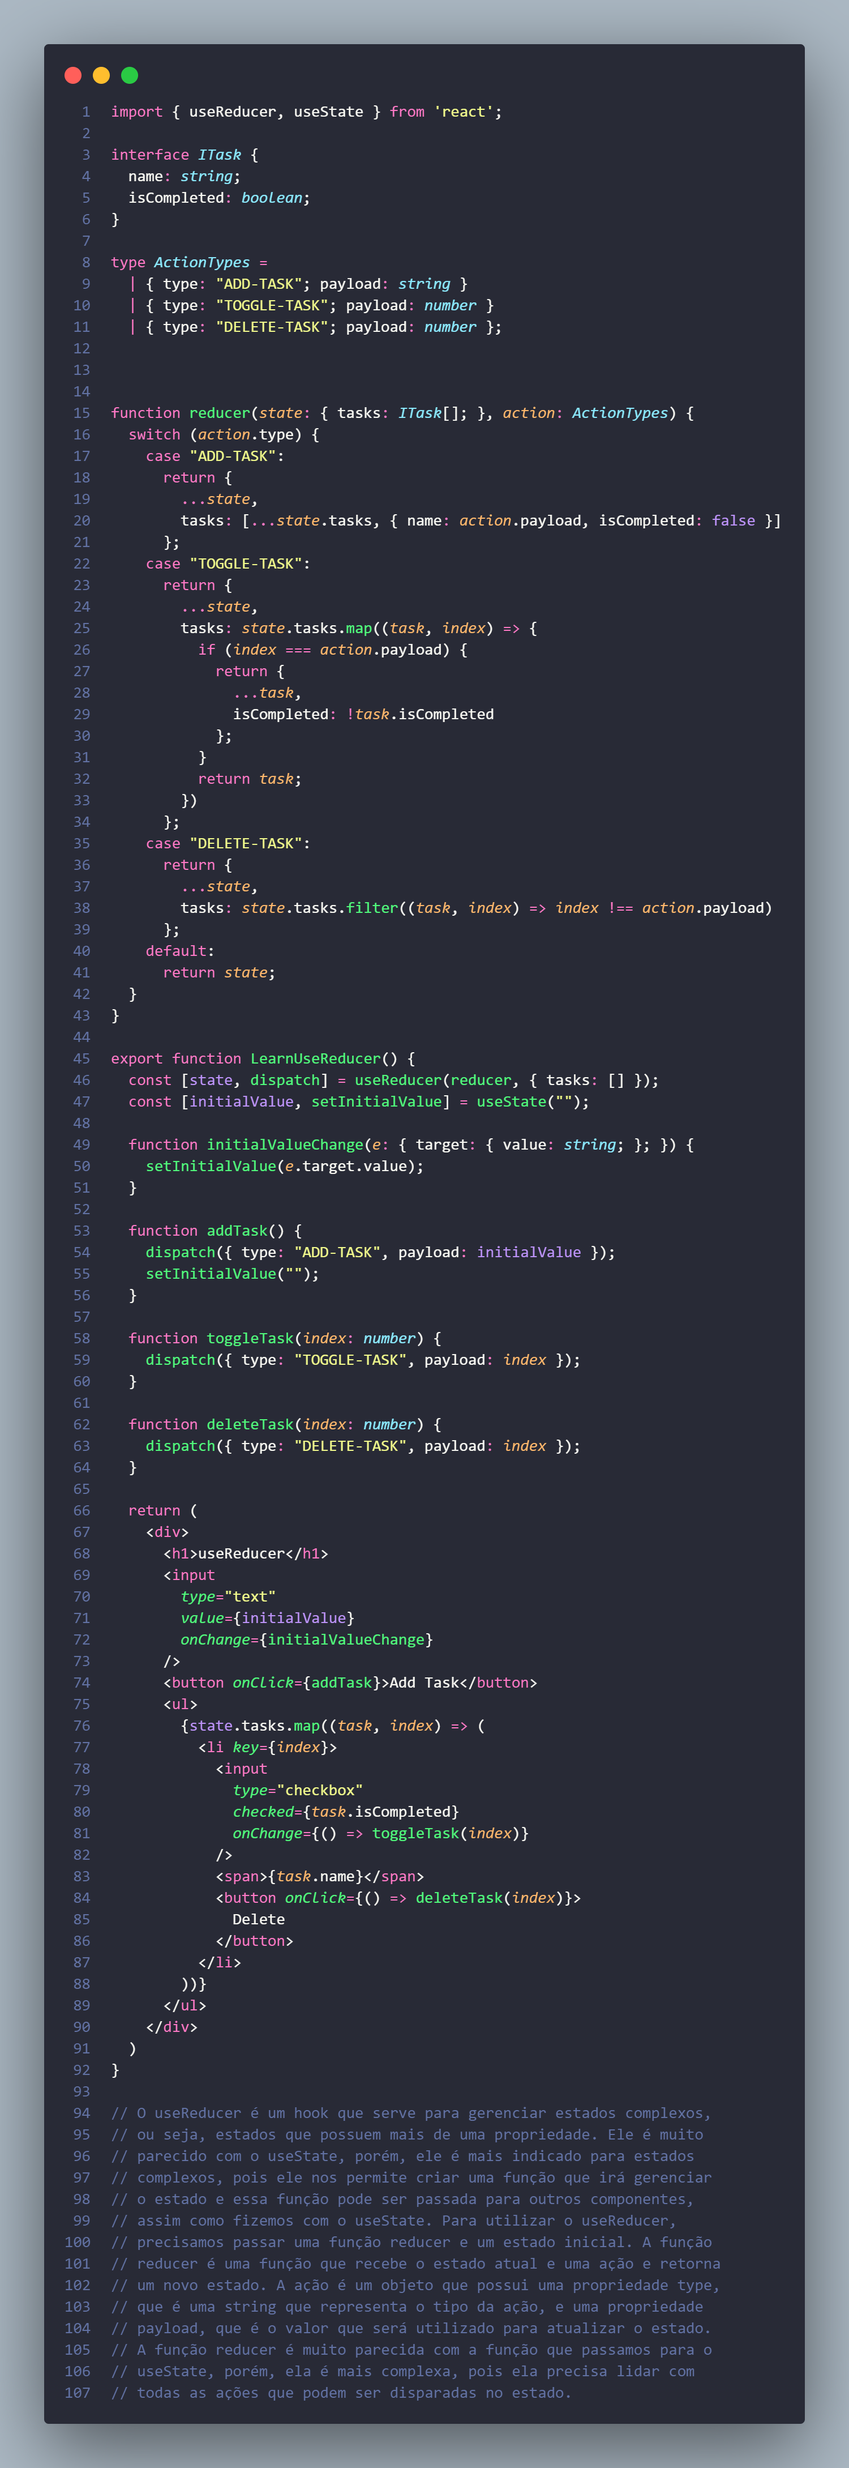
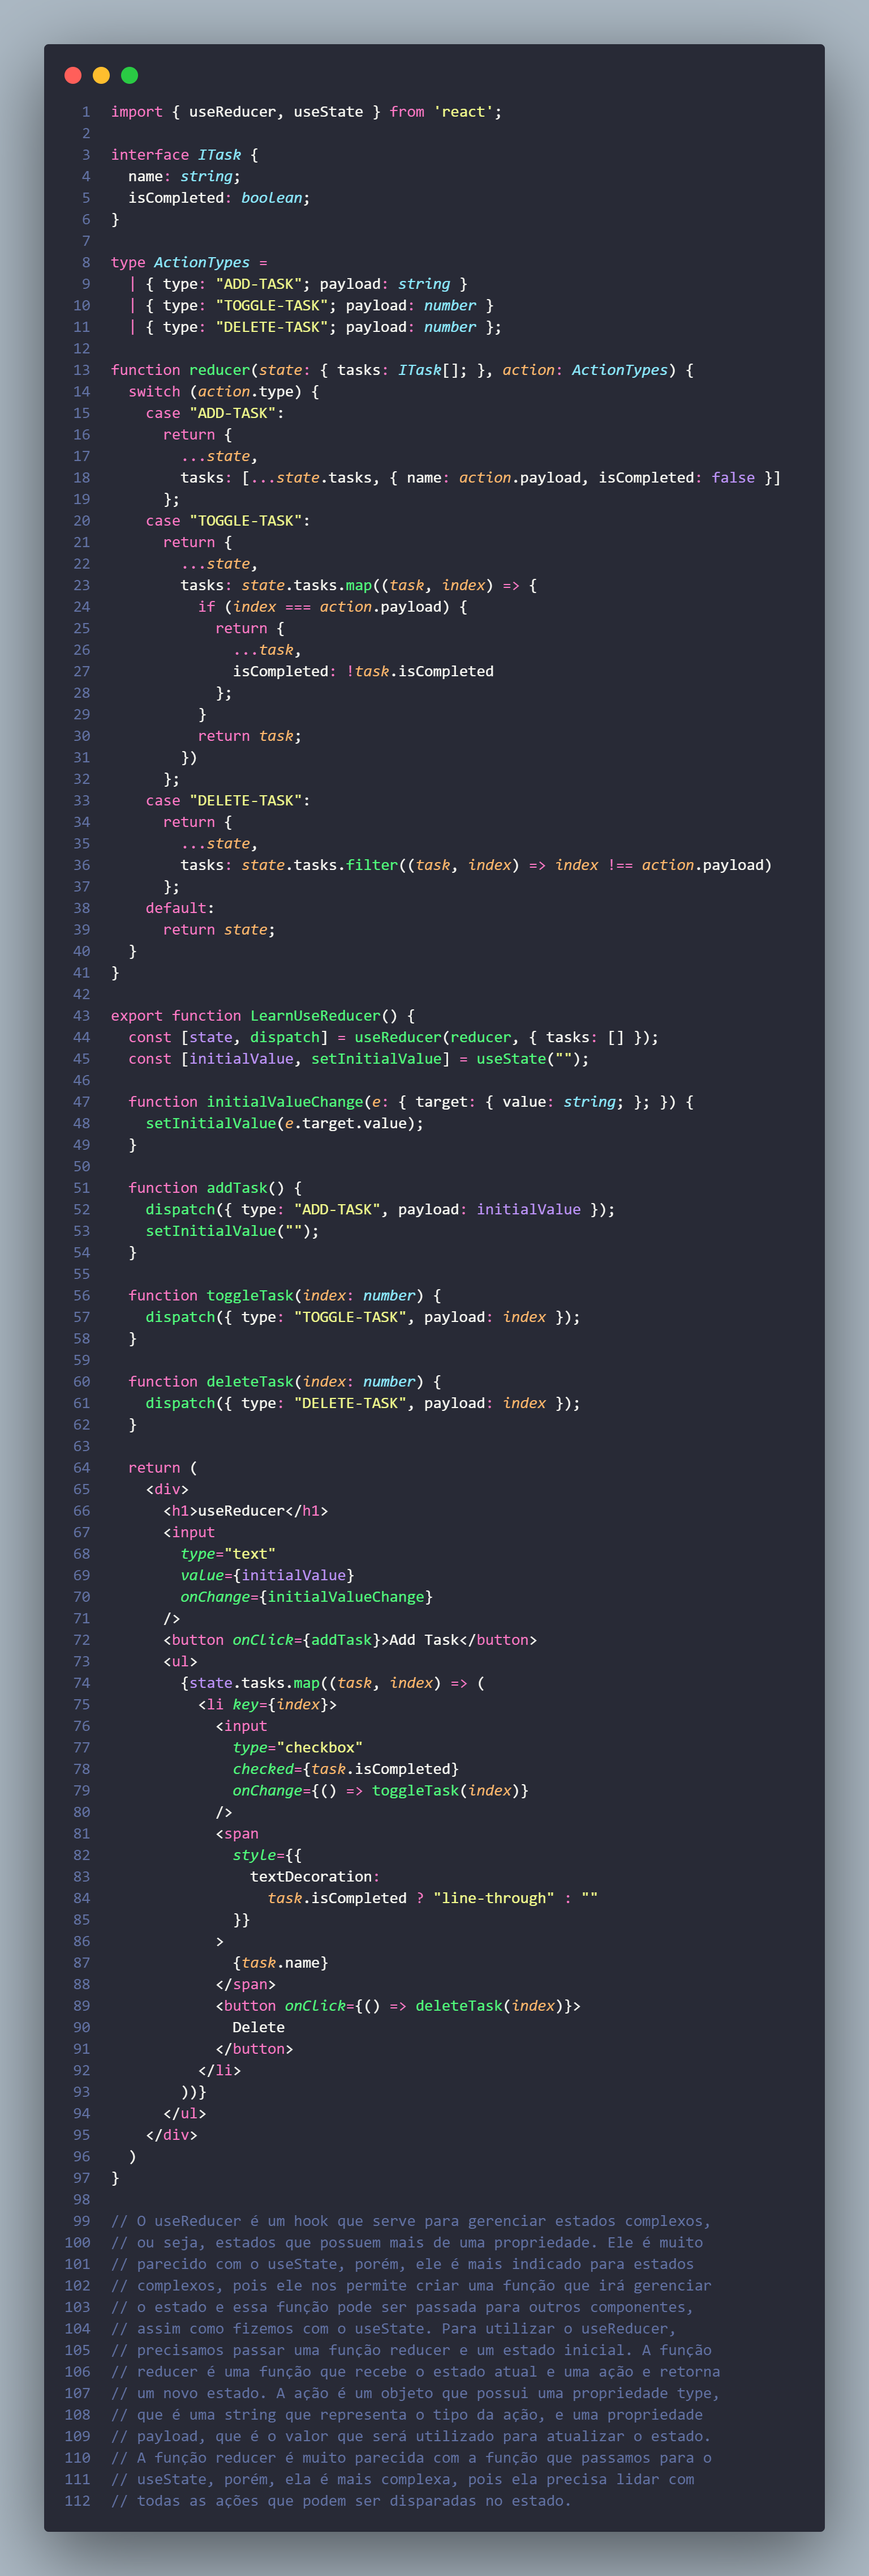
feat(components): create learn useContext

diff --git a/src/App.tsx b/src/App.tsx
@@ -1,5 +1,6 @@
 import {
   Header,
+  LearnUseContext,
   LearnUseEffect,
   LearnUseReducer,
   LearnUseRef,
@@ -10,6 +11,7 @@ import useRefCode from './assets/code-use-ref.png';
 import useStateCode from './assets/code-use-state.png';
 import useEffectCode from './assets/code-use-effect.png';
 import useReducerCode from './assets/code-use-reducer.png';
+import useContextCode from './assets/code-use-context.png';
 import './App.css';
 
 function App() {
@@ -45,6 +47,10 @@ function App() {
       <div className="hooks" id="learn-useReducer">
         <LearnUseReducer />
         <img src={useReducerCode} className="code-image-use-reducer" alt="code" />
+      </div>
+      <div className="hooks" id="learn-useContext">
+        <LearnUseContext />
+        <img src={useContextCode} className="code-image-use-context" alt="code" />
       </div>
     </div>
   );

diff --git a/src/context/index.tsx b/src/context/index.tsx
@@ -1,0 +1,36 @@
+import {
+  ReactNode,
+  createContext,
+  useState
+} from "react";
+
+type ThemeContextType = {
+  theme: string;
+  toggleTheme: () => void;
+}
+
+interface ThemeContextProviderProps {
+  children: ReactNode;
+}
+
+export const ThemeContext =
+  createContext<ThemeContextType>({} as ThemeContextType);
+
+const ThemeContextProvider =
+  ({ children }: ThemeContextProviderProps) => {
+    const [theme, setTheme] = useState("dark");
+
+    const toggleTheme = () => {
+      setTheme(theme === "dark" ? "light" : "dark");
+    };
+
+    return (
+      <ThemeContext.Provider value={{ theme, toggleTheme }}>
+        {children}
+      </ThemeContext.Provider>
+    );
+  };
+
+export default ThemeContextProvider;
+
+// Aqui o Contexto é criado, para ser utilizado.

diff --git a/src/components/learn-useContext.tsx b/src/components/learn-useContext.tsx
@@ -1,0 +1,29 @@
+import { useContext } from "react";
+import { ThemeContext } from "../context";
+
+export function LearnUseContext() {
+  const { theme, toggleTheme } = useContext(ThemeContext);
+
+  return (
+    <div>
+      <h1>useContext</h1>
+      <div
+        style={{
+          backgroundColor:
+            theme === "dark" ? "#333" : "#CCC",
+          color:
+            theme === "dark" ? "#CCC" : "#333",
+          padding: 20,
+          borderRadius: 10,
+          width: 200,
+          height: 100,
+        }}
+      >
+        <h4>Current theme: {theme}</h4>
+        <button onClick={toggleTheme}>Toggle Theme</button>
+      </div>
+    </div>
+  );
+}
+
+// O useContext é utilizado para acessar o Contexto criado.

diff --git a/src/index.tsx b/src/index.tsx
@@ -1,13 +1,20 @@
 import React from 'react';
 import ReactDOM from 'react-dom/client';
+
 import './index.css';
 import App from './App';
+import ThemeContextProvider from './context';
 
 const root = ReactDOM.createRoot(
   document.getElementById('root') as HTMLElement
 );
 root.render(
   <React.StrictMode>
-    <App />
+    <ThemeContextProvider>
+      <App />
+    </ThemeContextProvider>
   </React.StrictMode>
 );
+
+// O Provider é utilizado para que o Contexto 
+// seja acessível em toda a aplicação.

diff --git a/src/components/learn-useReducer.tsx b/src/components/learn-useReducer.tsx
@@ -78,7 +78,14 @@ export function LearnUseReducer() {
               checked={task.isCompleted}
               onChange={() => toggleTask(index)}
             />
-            <span>{task.name}</span>
+            <span
+              style={{
+                textDecoration:
+                  task.isCompleted ? "line-through" : ""
+              }}
+            >
+              {task.name}
+            </span>
             <button onClick={() => deleteTask(index)}>
               Delete
             </button>

diff --git a/src/components/index.tsx b/src/components/index.tsx
@@ -3,3 +3,4 @@ export { LearnUseRef } from "./learn-useRef";
 export { LearnUseState } from "./learn-useState";
 export { LearnUseEffect } from "./learn-useEffact";
 export { LearnUseReducer } from "./learn-useReducer";
+export { LearnUseContext } from "./learn-useContext";
